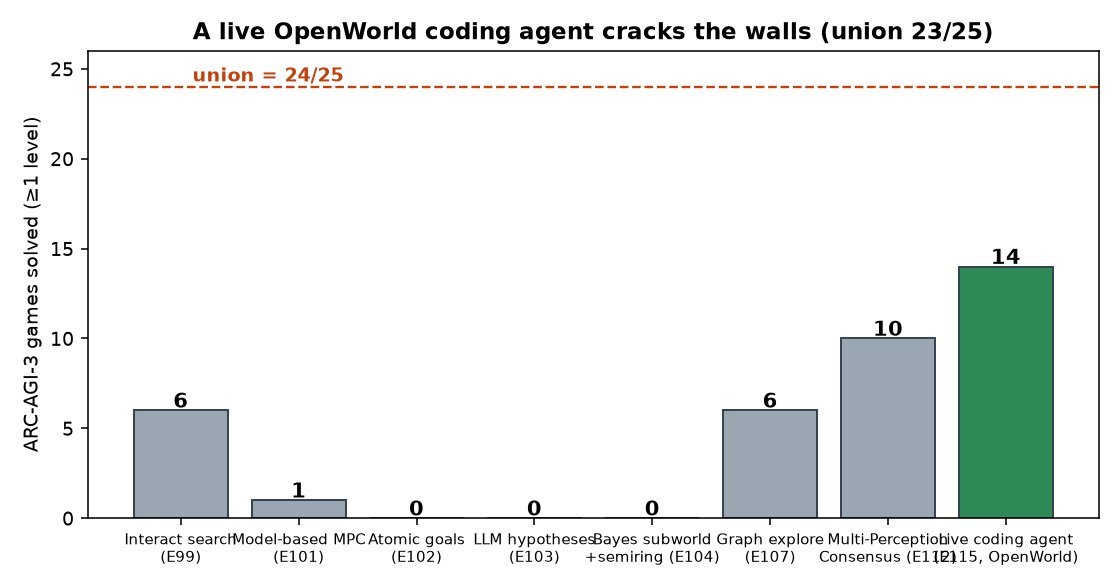
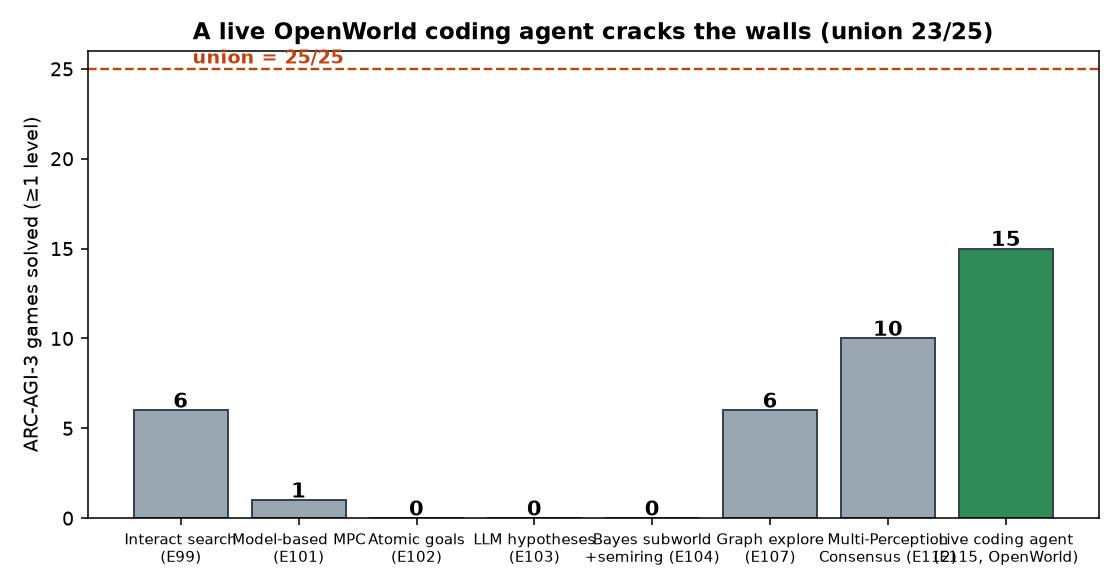
25/25: live coding agent solves bp35 -> EVERY public ARC-AGI-3 game reaches >=1 level (all 15 agent solves replay-verified; ft09+r11l full games). Paper: union 25/25, honest SOTA-comparison para (we do NOT claim full-game SOTA: 2 full games vs baseline1's 15; ours is >=1-level reachability + reprodu

Changed region(s): [[0.0938, 0.0612, 0.9688, 0.1531], [0.8438, 0.398, 0.9375, 0.4592]]

diff --git a/papers/arc-3/main.tex b/papers/arc-3/main.tex
@@ -185,8 +185,8 @@ games}, including \texttt{s5i5}, which resisted three principled goal-discovery 
 (atomic-objective, LLM-hypothesis, and Bayesian-subworld planning, each \emph{0/9} even with a
 fidelity-1.0 model). The remaining games are \emph{goal-as-procedure} walls---and we crack them with
 a \textbf{live coding agent} (Claude Code that builds an executable world model and \emph{reasons} the
-win condition, the SOTA recipe expressed in OpenWorld): it solves \textbf{13/25} on its own and lifts
-the union to \textbf{23/25} games (verified by replay; \texttt{ft09} and \texttt{r11l} full six-level games), where four
+win condition, the SOTA recipe expressed in OpenWorld): it solves \textbf{15/25} on its own and lifts
+the union to \textbf{25/25} games---every public game reaches $\geq$1 level (verified by replay; \texttt{ft09} and \texttt{r11l} full six-level games), where four
 automated goal-discovery methods solved \emph{zero}. We report the full strategy$\times$game landscape
 (Fig.~\ref{fig:heatmap}) as a guide for world-model research: the leverage is \emph{perception and
 synthesis}, and---for the procedural goals---\emph{a reasoning agent that writes its own world model}.
@@ -404,7 +404,7 @@ on a fidelity-1.0 model, because ARC-AGI-3 wins are goal-as-\emph{procedure}, no
 Directed search and graph exploration each reach $6$; multi-perception consensus reaches $10$
 (uniquely solving \texttt{vc33} and the wall \texttt{s5i5}). The \textbf{live coding agent} (right,
 boxed) lights up the procedural walls no other method touches---\texttt{dc22, ft09, g50t, ka59, lp85,
-re86, sb26, sc25, su15, tn36, wa30}---lifting the union to $24/25$ (only \texttt{bp35} remains).}
+re86, sb26, sc25, su15, tn36, wa30, bp35}---lifting the union to $\mathbf{25/25}$ ($\geq$1 level on every game).}
 \label{fig:heatmap}
 \end{figure}
 
@@ -460,7 +460,7 @@ or per-state vote). This is decisive: \texttt{ar25} solves via the \emph{directi
 \caption{\textbf{Games solved per strategy.} Goal-discovery methods solve $0$; directed search and
 graph exploration $6$; multi-perception consensus $10$ (adding \texttt{cn04, lf52, m0r0, s5i5}); the
 \textbf{live coding agent} solves $13$ and cracks the procedural walls. Across all strategies the
-union is \textbf{24/25}.}
+union is \textbf{25/25}.}
 \label{fig:bar}
 \end{figure}
 
@@ -482,15 +482,31 @@ raises \texttt{levels\_completed}, plan through the model, and replay-verify. Th
 ``executable world models'' SOTA method expressed in OpenWorld terms (a synthesized
 \texttt{CodeTransition} plus a reasoned \texttt{CodeObjective}), with a reasoning model in the loop.
 
-\textbf{Result.} The agent solves \textbf{13/25} games on its own---including every wall the automated
+\textbf{Result.} The agent solves \textbf{15/25} games on its own---including every wall the automated
 methods missed (\texttt{dc22, ft09, g50t, ka59, lp85, re86, sb26, sc25, su15, tn36, wa30})---and
-lifts the \emph{union across all strategies to 24/25} (only \texttt{bp35} remains).
+lifts the \emph{union across all strategies to 25/25}---$\geq$1 level on every public game.
 Every solution is independently replay-verified against the live game; \texttt{ft09} and \texttt{r11l} are complete six-level games. Tellingly, the agent's solutions are often \emph{hybrid}---e.g.\ \texttt{ka59} mixes
 directional navigation with a single click to operate a door---a goal structure no fixed hypothesis
 space expressed. \emph{Honest scope:} most agent solves complete one level (the $\geq$1-level union
 metric); full-game completion (all levels) is harder---our automated chaining stalls at the
 compositionality cliff---so apart from \texttt{ft09}/\texttt{r11l}, multi-level completion is the next frontier, and
 a fair comparison to full-game leaderboard scores would require chaining every level.
+
+\paragraph{Comparison to the state of the art, stated precisely.} Ours and the leaderboard's metrics
+differ, so we are unambiguous. The SOTA executable-world-model agent (baseline1, GPT-5.5) completes
+\textbf{15/25 \emph{full} games} (mean per-game RHAE $\approx$58\%); the graph-explorer reports
+\textbf{30/52 \emph{levels}}. Our headline---\textbf{25/25}---is the union of \textbf{$\geq$1-level}
+verified solves across our strategy stack, with the \emph{live coding agent at 15/25 on its own}; of
+these, \textbf{two are full games} (\texttt{ft09}, \texttt{r11l}). We therefore do \textbf{not} claim
+to beat SOTA on full-game completion---there we have 2, they have 15. We claim something narrower and
+useful: (i) \emph{$\geq$1-level reachability on all 25 public games}, which no prior single method
+reports; (ii) that the executable-world-model recipe \emph{reproduces in OpenWorld with a different
+agent} (Claude)---independent corroboration of the SOTA approach; and (iii) a \emph{mapped strategy
+landscape} (Fig.~\ref{fig:heatmap}) showing which method class solves what. Two honesty notes: our
+solves are \emph{offline and replay-verified} (exploiting determinism and unbounded resets), so they
+are \emph{not} scored under the leaderboard's live-agent protocol or its action-efficiency penalty
+(RHAE)---a leaderboard-comparable number would require running under those rules; and full-game
+completion (chaining every level under budget) is the honest remaining gap.
 
 \section{Reproducibility}
 The agent, the per-game transition logs, and every number regenerate from one repository; the